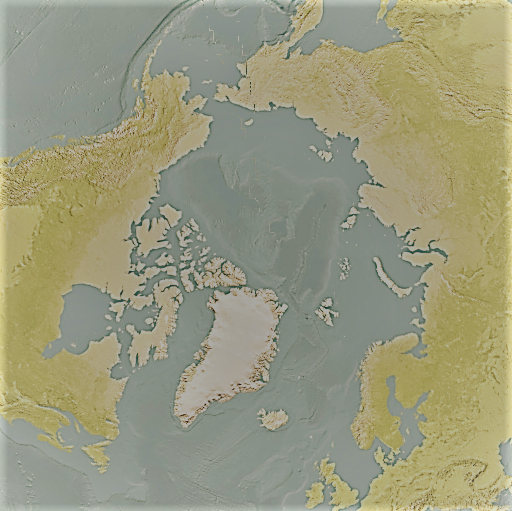
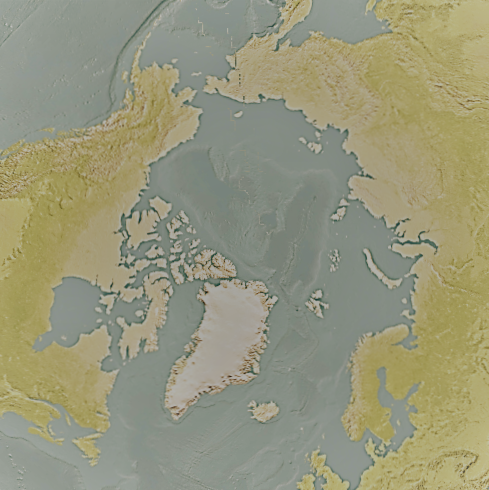
img resource enhancements

diff --git a/stylesheets/stylesheet.css b/stylesheets/stylesheet.css
@@ -79,7 +79,7 @@ a:hover {
   /*background-image: url('../images/custom-pattern.png');*/
   color: #B52A1D;
   background-color: #55809F;
-  background-image: url('../images/hillshade.png');
+  background-image: url('../images/hillshade.jpg');
   background-blend-mode: screen;
   background-position: 78% 28%;
   background-size: cover;
